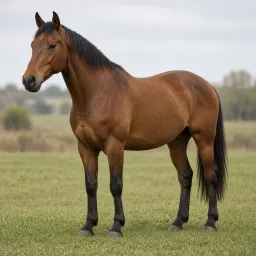
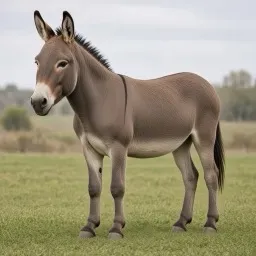
feat(atlas): unique donkey and turkey host portraits (#264)

diff --git a/tests/client/atlasEntry.test.ts b/tests/client/atlasEntry.test.ts
@@ -26,6 +26,12 @@ import { entryTitles } from "../../src/atlas/entryTitles";
 import { isShortcutTarget } from "../../src/atlas/keys";
 import { isAtlasToAtlas } from "../../src/atlas/paths";
 
+function hostBytes(name: string): Buffer {
+  return readFileSync(
+    new URL(`../../public/atlas/hosts/${name}.webp`, import.meta.url),
+  );
+}
+
 const entries = await bundledAtlasSource.list("subj_1");
 const fasciola = entries.find((e) => e.id === "fasciola-hepatica")!;
 
@@ -193,6 +199,26 @@ describe("entryGlance", () => {
     expect(resolveHostPortrait("rodent")?.archetype).toBe("rodent");
     expect(resolveHostPortrait("earthworm")?.src).toMatch(/earthworm\.webp$/);
     expect(resolveHostPortrait("Formica")?.archetype).toBe("ant");
+  });
+
+  it("maps donkey and turkey to dedicated portraits", () => {
+    expect(resolveHostPortrait("donkey")).toEqual({
+      src: "/atlas/hosts/donkey.webp",
+      archetype: "donkey",
+    });
+    expect(resolveHostPortrait("turkey")).toEqual({
+      src: "/atlas/hosts/turkey.webp",
+      archetype: "turkey",
+    });
+  });
+
+  it("ships unique donkey and turkey host webp bytes", () => {
+    const donkey = hostBytes("donkey");
+    const turkey = hostBytes("turkey");
+    expect(donkey.equals(hostBytes("horse"))).toBe(false);
+    expect(donkey.equals(hostBytes("equid"))).toBe(false);
+    expect(turkey.equals(hostBytes("chicken"))).toBe(false);
+    expect(turkey.equals(hostBytes("bird"))).toBe(false);
   });
 
   it("resolves site portraits via broader chain", () => {
